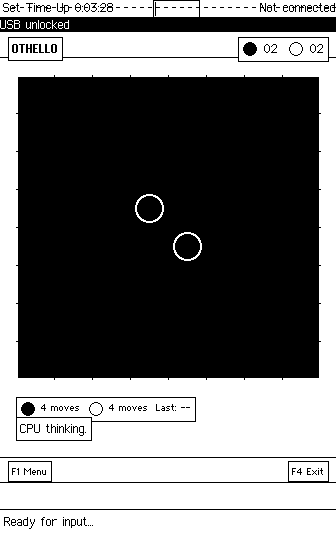
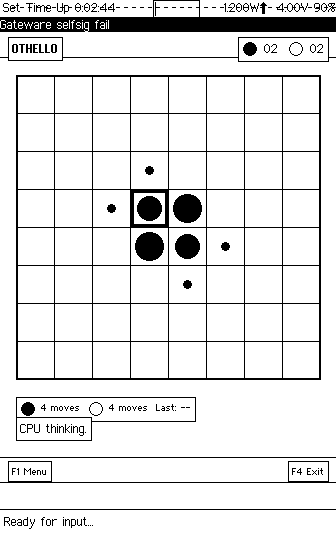
Fix board rendering: use light fill for board background
DrawStyle::new takes (fill, stroke, width) - was passing Dark fill
which made the entire board black. Now uses Light fill with Dark
stroke for proper white background with grid lines visible.

Updated screenshots show:
- White board background with dark grid lines
- Black pieces (filled) and white pieces (outlined)
- Valid move indicators visible as small dots
- Cursor highlight visible around selected cell

diff --git a/src/ui.rs b/src/ui.rs
@@ -188,13 +188,13 @@ fn draw_board(app: &OthelloApp, gam: &Gam, board: &Board, cursor: Option<(u8, u8
         }
     }
 
-    // Draw board border
+    // Draw board background (light fill with dark border)
     gam.draw_rectangle(
         gid,
         Rectangle::new_with_style(
             origin,
             Point::new(origin.x + board_px, origin.y + board_px),
-            DrawStyle::new(PixelColor::Dark, PixelColor::Light, 2),
+            DrawStyle::new(PixelColor::Light, PixelColor::Dark, 2),
         ),
     )
     .ok();
